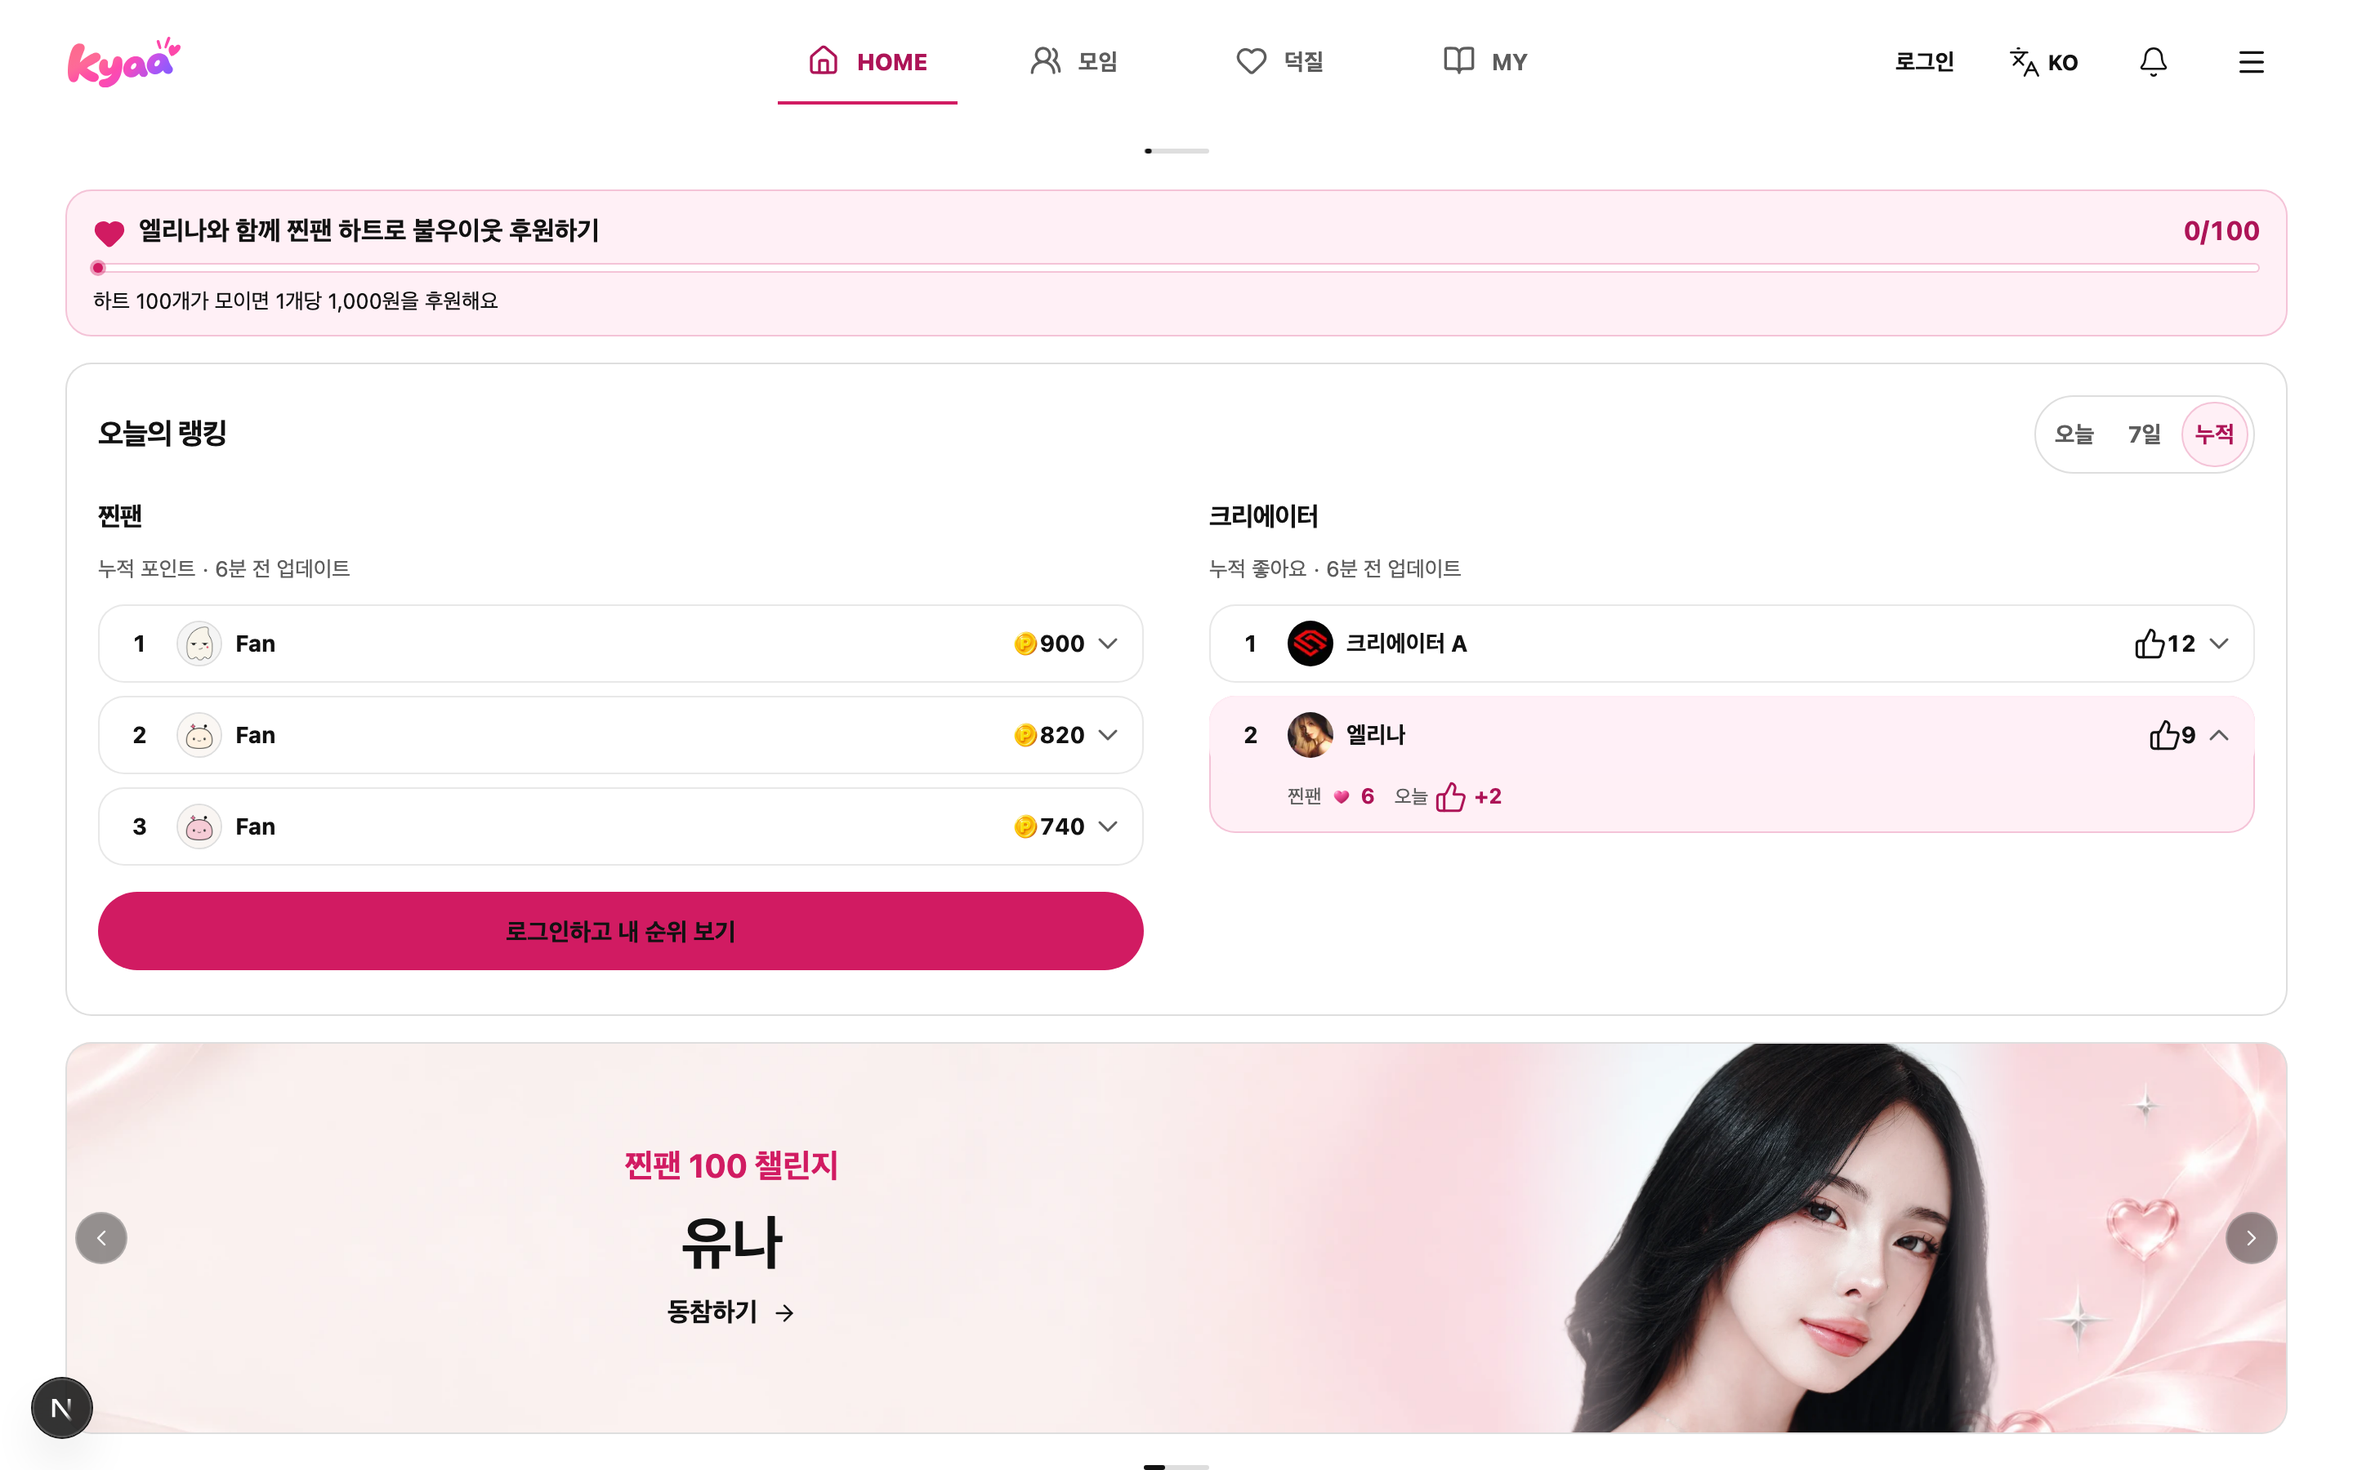
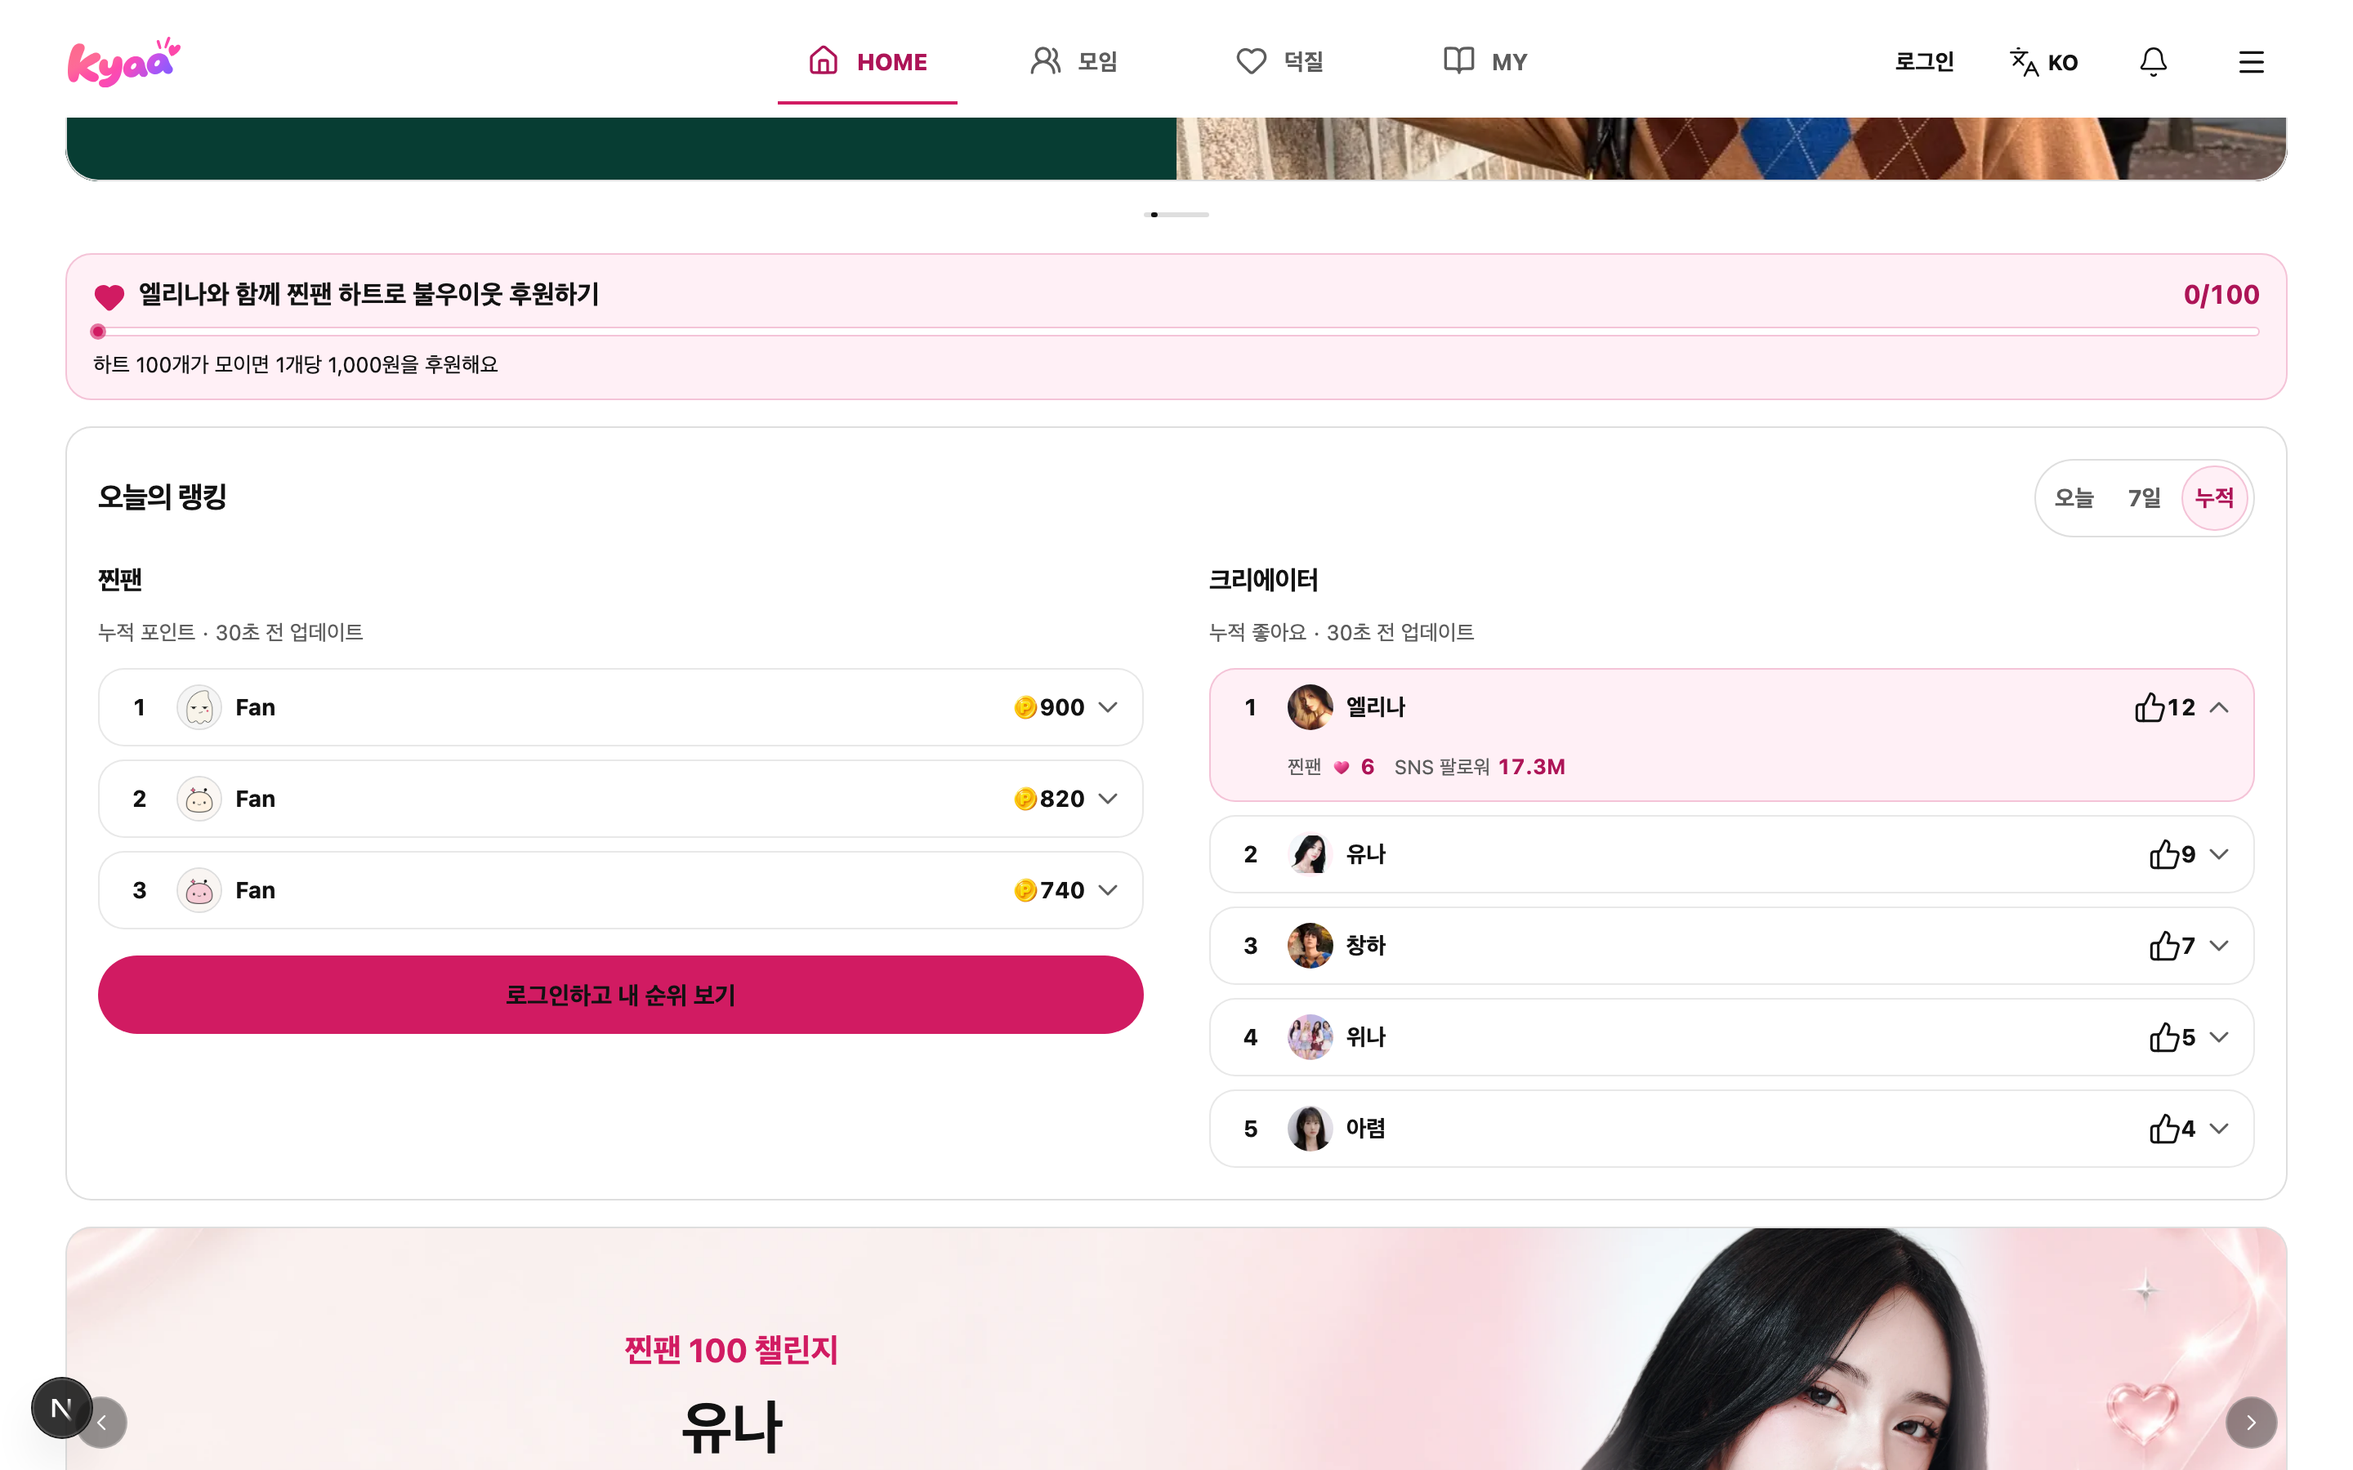
feat(rankings): show the operator-kept SNS follower total in the opened creator row
The likes list adds celebrities.fan_count by slug to each creator row; the opened row shows it (6.8M style) after the 찐팬 hearts. No per-platform value is stored, so no platform icons; a creator without a total has no SNS cell.

diff --git a/apps/web/features/rankings/ui/ranking-rows.tsx b/apps/web/features/rankings/ui/ranking-rows.tsx
@@ -11,6 +11,7 @@ import { RollingNumber } from "@/components/fan-ui/rolling-number";
 import { FanSkeleton } from "@/components/fan-ui/fan-skeleton";
 import { FanState } from "@/components/fan-ui/fan-state";
 import { FanTag } from "@/components/fan-ui/fan-tag";
+import { formatCountMetric } from "@/components/fan-ui/fan-count";
 import { fanLoginHref } from "@/components/login-href";
 import { creatorHomeHref } from "@/features/creator/domain/creator-navigation";
 import { Avatar } from "@/features/profile/ui/avatar";
@@ -407,10 +408,14 @@ const fanStats = (locale: AppLocale, row: HomeFanRankingRow, metric: RankingMetr
   ] : []),
 ];
 
-/** Creators by likes (대표 11/13 08:50 "찐팬 ♥ 5 · SNS"): the 찐팬 hearts first, with the heart asset, then all-time likes when the list counts a period.
- * No SNS follower count is stored anywhere (20261222140000), so no SNS cell is drawn; a made-up number never is. */
+/** Creators by likes (대표 11/13 08:50 "찐팬 ♥ 5 · SNS"): the 찐팬 hearts first, with the heart asset, then the operator-kept SNS follower total (celebrities.fan_count, 6.8M style; one number,
+ * no per-platform split is stored, so no platform icon), then all-time likes when the list counts a period. A creator without a kept total has no SNS cell; a made-up number never is. */
 const creatorStats = (locale: AppLocale, row: HomeCreatorRankingRow, metric: RankingMetric, period: HomeRankingPeriod) => metric === "likes"
-  ? [...statCell(locale, "hearts", rankingsText(locale, "rkPanelJjinfan"), row.hearts, "hearts"), ...(period === "all" ? [] : statCell(locale, "totalLikes", rankingsText(locale, "rkPanelTotalLikes"), row.totalLikes, "likes"))] : [];
+  ? [
+    ...statCell(locale, "hearts", rankingsText(locale, "rkPanelJjinfan"), row.hearts, "hearts"),
+    ...(typeof row.fanCount === "number" && row.fanCount > 0 ? [{ key: "followers", label: rankingsText(locale, "rkPanelFollowers"), value: formatCountMetric(locale, row.fanCount) }] : []),
+    ...(period === "all" ? [] : statCell(locale, "totalLikes", rankingsText(locale, "rkPanelTotalLikes"), row.totalLikes, "likes")),
+  ] : [];
 
 /** Creators: name, movement (and LIVE and the 찐팬 100 challenge tag where they apply) and the metric's value on one line; the row opens a panel whose action goes to the page. */
 export function CreatorRows({ locale, ranking, metric, show, fill, scope, challengeTag = false, guest = false, period = "all", entryRef }: { locale: AppLocale; ranking: HomeCreatorRanking; guest?: boolean; metric: HomeCreatorMetric; show?: number; fill?: number; scope: string; challengeTag?: boolean; period?: HomeRankingPeriod; entryRef?: { current: boolean } }) {

diff --git a/apps/web/server/rankings/routes.test.ts b/apps/web/server/rankings/routes.test.ts
@@ -197,6 +197,26 @@ describe("rankings routes", () => {
     expect(body.rows[0]).toMatchObject({ hearts: 7, points: null, fans: 2, liveNow: true, delta: 0, weekGain: 0, isNew: false });
   });
 
+  it("adds the operator-kept SNS follower total to the likes list by slug, null without one, and no non-participant value on other lists", async () => {
+    const likesRow = (rank: number, slug: string) => ({ rank, slug, name: slug.toUpperCase(), imageUrl: null, score: 5, hearts: 3, points: null, fans: 2, liveNow: false, isNew: false, challenge: false, delta: 0, weekGain: 0, likes: 5, totalLikes: 9 });
+    const answer = (metric: string) => () => ({ ...head({ metric, weekGainDays: 1 }), rows: [likesRow(1, "a"), likesRow(2, "b"), likesRow(3, "c")] });
+    const readFanCounts = vi.fn(async () => new Map<string, number | null>([["a", 6_800_000], ["b", null]]));
+    const { handlers } = make(answer("likes"), { ...fresh, readFanCounts });
+    const likes = await (await handlers.home(req("/x?kind=creators&metric=likes"))).json();
+    expect(likes.rows.map((row: { fanCount: number | null }) => row.fanCount)).toEqual([6_800_000, null, null]);
+    const hearts = await (await make(answer("hearts"), { ...fresh, readFanCounts }).handlers.home(req("/x?kind=creators&metric=hearts"))).json();
+    expect(hearts.rows[0]).not.toHaveProperty("fanCount");
+    expect(readFanCounts).toHaveBeenCalledTimes(1);
+  });
+
+  it("keeps the likes list when the follower totals cannot be read", async () => {
+    const row = { rank: 1, slug: "a", name: "A", imageUrl: null, score: 5, hearts: 3, points: null, fans: 2, liveNow: false, isNew: false, challenge: false, delta: 0, weekGain: 0, likes: 5, totalLikes: 9 };
+    const { handlers } = make(() => ({ ...head({ metric: "likes", weekGainDays: 1 }), rows: [row] }), { ...fresh, readFanCounts: async () => { throw new Error("down"); } });
+    const res = await handlers.home(req("/x?kind=creators&metric=likes"));
+    expect(res.status).toBe(200);
+    expect((await res.json()).rows[0].fanCount).toBeNull();
+  });
+
   it("keeps each list's default metric when none is asked for, and passes the asked one (unit regression)", async () => {
     const { handlers, rpc } = make((name, args) => ({ ...head(), metric: args.p_metric, rows: [], me: null }), fresh);
     expect((await (await handlers.home(req("/x?kind=fans"))).json()).metric).toBe("hearts");

diff --git a/apps/web/server/rankings/routes.ts b/apps/web/server/rankings/routes.ts
@@ -15,6 +15,8 @@ export interface RankingsDependencies {
   rpc(name: string, args: Record<string, unknown>): Promise<unknown>;
   authorize(authorization: string | null): Promise<{ appUserId: string }>;
   resolveCreatorId(slug: string): Promise<string | null>;
+  /** The operator-managed SNS follower total by creator slug (celebrities.fan_count), read for the likes list's opened rows. */
+  readFanCounts?(): Promise<ReadonlyMap<string, number | null>>;
   /** Development only: rebuild the snapshots from a read when they are older than REFRESH_AFTER_MS. Production leaves this off and relies on a scheduler. */
   refreshOnRead?: boolean;
   now?: () => number;
@@ -199,10 +201,12 @@ export function createRankingsHandlers(deps: RankingsDependencies) {
           : period === "all"
           ? await readHome("read_home_creator_ranking_v2", { p_locale: lang, p_metric: metric, p_limit: creatorLimit })
           : await readHome("read_home_creator_ranking_period", { p_locale: lang, p_period: period, p_limit: creatorLimit }));
+        // The follower total is a display extra of the opened row: a failed read leaves the cell out instead of failing the ranking.
+        const fanCounts = metric === "likes" && deps.readFanCounts ? await deps.readFanCounts().catch(() => null) : null;
         const rows = arr(raw.rows).map((row) => {
           const r = obj(row);
           return { rank: r.rank, slug: r.slug, name: r.name, imageUrl: r.imageUrl ?? null, score: r.score, hearts: r.hearts, points: r.points ?? null, fans: r.fans, liveNow: r.liveNow === true, isNew: r.isNew === true, challenge: r.challenge === true, delta: r.delta ?? null, weekGain: r.weekGain ?? null, dayGain: r.dayGain ?? null,
-            ...(metric === "likes" ? { likes: r.likes, totalLikes: r.totalLikes } : {}) };
+            ...(metric === "likes" ? { likes: r.likes, totalLikes: r.totalLikes, fanCount: typeof r.slug === "string" ? fanCounts?.get(r.slug) ?? null : null } : {}) };
         });
         return Response.json(checked(homeCreatorRankingSchema, { ...head(raw, metric), weekGainDays: raw.weekGainDays ?? null, rows }), { headers: listHeaders(request, member) });
       }

diff --git a/apps/web/features/rankings/ui/ranking-board.test.tsx b/apps/web/features/rankings/ui/ranking-board.test.tsx
@@ -88,7 +88,7 @@ it("a row is one line: movement beside the name, LIVE, the value; today's gain a
     [], [
       creatorRow(1, { name: "일등", likes: 12345, delta: 2, dayGain: 125, liveNow: true }),
       creatorRow(2, { name: "이등", likes: 12345, delta: -1, dayGain: 0 }),
-      creatorRow(3, { name: "삼등", likes: 100, delta: 0, dayGain: null }),
+      creatorRow(3, { name: "삼등", likes: 100, delta: 0, dayGain: null, fanCount: 6_800_000 }),
       creatorRow(4, { name: "새얼굴", likes: 7, delta: null, isNew: true, dayGain: -2 }),
     ],
   );
@@ -106,8 +106,11 @@ it("a row is one line: movement beside the name, LIVE, the value; today's gain a
   expect(row("일등").querySelector("[data-metric] [data-icon='heart']")).toBeNull();
   fireEvent.click(row("삼등").querySelector("button")!);
   expect(row("삼등").querySelector("[data-rank-panel]")!.textContent).toContain("찐팬40");
+  expect(row("삼등").querySelector("[data-rank-panel]")!.textContent).toContain("SNS 팔로워6.8M");
   expect(row("삼등").querySelector("[data-rank-panel]")!.textContent).not.toContain("1위까지");
   expect(row("삼등").querySelector("[data-rank-panel]")!.textContent).not.toContain("오늘");
+  fireEvent.click(row("이등").querySelector("button")!);
+  expect(row("이등").querySelector("[data-rank-panel]")!.textContent).not.toContain("SNS");
   expect(row("새얼굴").textContent).not.toContain("신규");
   expect(row("새얼굴").querySelector("[data-direction='new']")).toBeNull();
   expect(row("새얼굴").querySelector("[data-direction]")).toBeNull();

diff --git a/apps/web/i18n/catalogs/features__rankings__ui__rankings-copy.ts b/apps/web/i18n/catalogs/features__rankings__ui__rankings-copy.ts
@@ -366,5 +366,6 @@ export const messages = {
   "rkPanelTickets": {"ja": "応募券", "zh-Hans": "抽奖券", "zh-Hant": "抽獎券", "es": "Boletos", "id": "Tiket undian", "vi": "Vé dự thưởng", "th": "ตั๋วชิงรางวัล", "pt": "Bilhetes", "fr": "Tickets", "ru": "Билеты"},
   "rkPanelAttendance": {"ja": "出席日数", "zh-Hans": "签到天数", "zh-Hant": "簽到天數", "es": "Días de asistencia", "id": "Hari absen", "vi": "Ngày điểm danh", "th": "วันเช็กอิน", "pt": "Dias de presença", "fr": "Jours de présence", "ru": "Дней отметок"},
   "rkPanelPosts": {"ja": "投稿", "zh-Hans": "帖子", "zh-Hant": "貼文", "es": "Publicaciones", "id": "Postingan", "vi": "Bài viết", "th": "โพสต์", "pt": "Publicações", "fr": "Publications", "ru": "Публикации"},
+  "rkPanelFollowers": {"ja": "SNSフォロワー", "zh-Hans": "社交媒体粉丝", "zh-Hant": "社群追蹤者", "es": "Seguidores en redes", "id": "Pengikut media sosial", "vi": "Người theo dõi MXH", "th": "ผู้ติดตามโซเชียล", "pt": "Seguidores nas redes", "fr": "Abonnés réseaux", "ru": "Подписчики в соцсетях"},
   "rkPanelTotalLikes": {"ja": "累計いいね", "zh-Hans": "累计点赞", "zh-Hant": "累計按讚", "es": "Me gusta totales", "id": "Total suka", "vi": "Tổng lượt thích", "th": "ถูกใจสะสม", "pt": "Curtidas no total", "fr": "J’aime cumulés", "ru": "Всего лайков"},
 } satisfies Record<string, TranslatedMessage>;

diff --git a/apps/web/server/rankings/dependencies.ts b/apps/web/server/rankings/dependencies.ts
@@ -2,9 +2,10 @@ import "server-only";
 import { createFanpageDependencies } from "@/server/fanpage/dependencies";
 import { resolveCreatorId } from "@/server/dukjil/creator-id";
 import { loadServerEnv } from "@/server/config/env";
+import { createPublishedContentRepositoryFromEnvironment } from "@/server/content/published-content-repository";
 import { createRankingsHandlers } from "./routes";
 
 export function createRankingsRouteHandlers() {
   const { rpc, authorize } = createFanpageDependencies();
-  return createRankingsHandlers({ profileRefSecret: loadServerEnv().PRIVY_APP_SECRET, rpc, authorize, resolveCreatorId, refreshOnRead: process.env.APP_ENV === "dev" });
+  return createRankingsHandlers({ profileRefSecret: loadServerEnv().PRIVY_APP_SECRET, rpc, authorize, resolveCreatorId, readFanCounts: async () => new Map((await createPublishedContentRepositoryFromEnvironment().list("ko")).map((creator) => [creator.slug, creator.fanCount])), refreshOnRead: process.env.APP_ENV === "dev" });
 }

diff --git a/apps/web/features/rankings/domain/types.ts b/apps/web/features/rankings/domain/types.ts
@@ -156,6 +156,8 @@ export const homeCreatorRankingRowSchema = z.object({
   /** likes list only: page likes in the period and all time. */
   likes: count.optional(),
   totalLikes: count.optional(),
+  /** likes list only: the operator-managed total of the creator's SNS followers (celebrities.fan_count, the same value the public creator answer calls fanCount). null when none is kept. No per-platform split is stored. */
+  fanCount: count.nullable().optional(),
 });
 export const homeCreatorRankingSchema = z.object({
   ...homeHead,

diff --git a/apps/web/features/rankings/ui/rankings-source.ts b/apps/web/features/rankings/ui/rankings-source.ts
@@ -123,4 +123,5 @@ export const rankingsSource = {
   rkPanelAttendance: { ko: "출석일", en: "Check-in days" },
   rkPanelPosts: { ko: "게시글", en: "Posts" },
   rkPanelTotalLikes: { ko: "누적 좋아요", en: "All-time likes" },
+  rkPanelFollowers: { ko: "SNS 팔로워", en: "SNS followers" },
 } as const;
